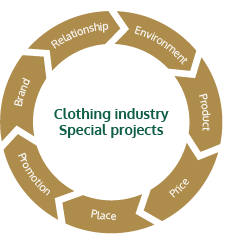
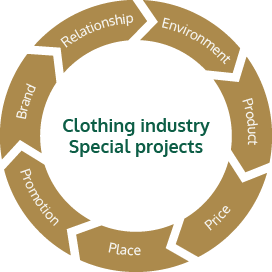
index title text-style change. 上帝之手……

diff --git a/yeinsight.com/css/all.css b/yeinsight.com/css/all.css
@@ -86,27 +86,27 @@ form,fieldset{
     border:none;
 }
 h1 {
-    color:#222;
+    color:#015f47;
     font:400 30px/36px 'Oxygen', Arial, Helvetica, sans-serif;
 }
 h2 {
-    color:#222;
+    color:#015f47;
     font:400 24px/36px 'Oxygen', Arial, Helvetica, sans-serif;
 }
 h3 {
-    color:#222;
+    color:#015f47;
     font:400 18px/28px 'Oxygen', Arial, Helvetica, sans-serif;
 }
 h4 {
-    color:#222;
+    color:#015f47;
     font:400 16px/18px 'Oxygen', Arial, Helvetica, sans-serif;
 }
 h5 {
-    color:#222;
+    color:#015f47;
     font:400 14px/18px 'Oxygen', Arial, Helvetica, sans-serif;
 }
 h6 {
-    color:#222;
+    color:#015f47;
     font:300 12px/18px 'Oxygen', Arial, Helvetica, sans-serif;
 }
 /* wrapper */
@@ -570,12 +570,10 @@ a:hover .icon.ico6{background:url(../images/ico6-hover.png) no-repeat;}
 
 
 .boxes h3 {
-    color:#222;
     line-height:18px;
     margin:0 0 18px;
 }
 .boxes-section h3 {
-    color:#222;
     font-size: 14px;
     line-height:22px;
     margin:0 0 11px;
@@ -1562,7 +1560,7 @@ a:hover .icon.ico6{background:url(../images/ico6-hover.png) no-repeat;}
 }
 .main-container h1 {
     margin:0 0 8px;
-    font:400 22px/30px Oxygen, Arial, Helvetica, sans-serif;
+    font:400 24px/32px Oxygen, Arial, Helvetica, sans-serif;
 }
 .main-container h2 {margin:0 0 6px;}
 .main-container h3 {
@@ -3441,8 +3439,8 @@ input[type=submit], input[type=text], input[type=password], input[type=file], te
 }
 
 #clothing-industry {
-    width: 70%;
-    margin: 0 0 0 50px;
+    width: 272px;
+    margin: 0 0 0 30px;
 }
 
 .learn-more {
@@ -3469,6 +3467,19 @@ input[type=submit], input[type=text], input[type=password], input[type=file], te
 
 .home-title {
     margin-left: -25px;
+}
+
+
+.home-title h1{
+    margin-top: 50px;
+    font:700 24px/32px Oxygen, Arial, Helvetica, sans-serif;
+    color:#015f47;
+}
+
+.home-title p{
+    margin-top: 20px;
+
+    font:400 17px/25px Oxygen, Arial, Helvetica, sans-serif;
 }
 
 .branding-resarch {}
